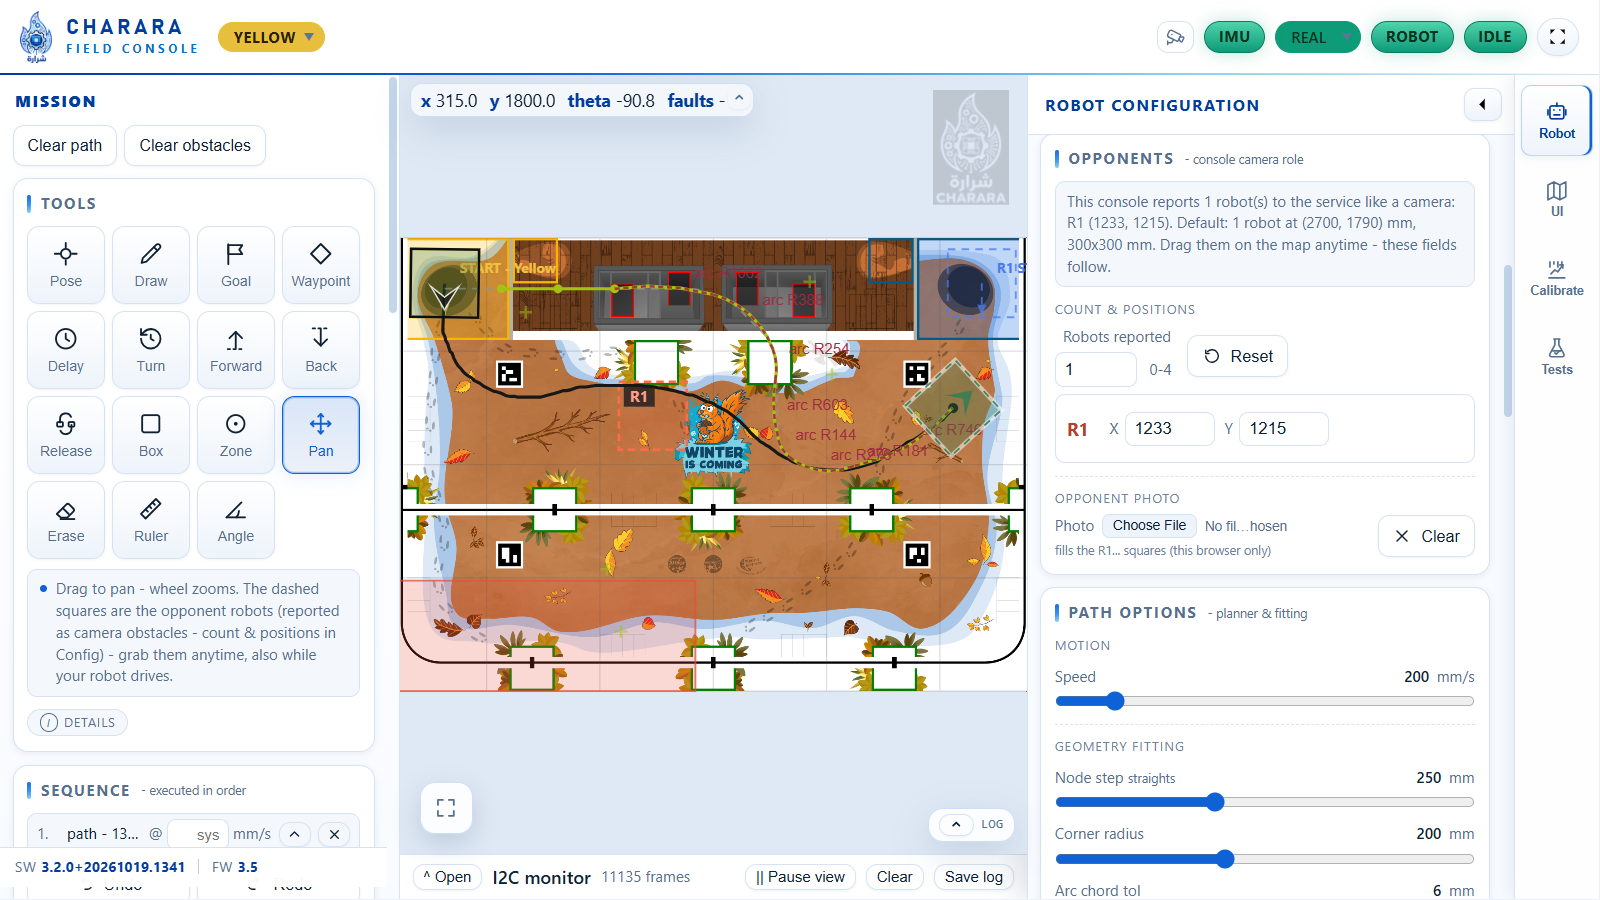
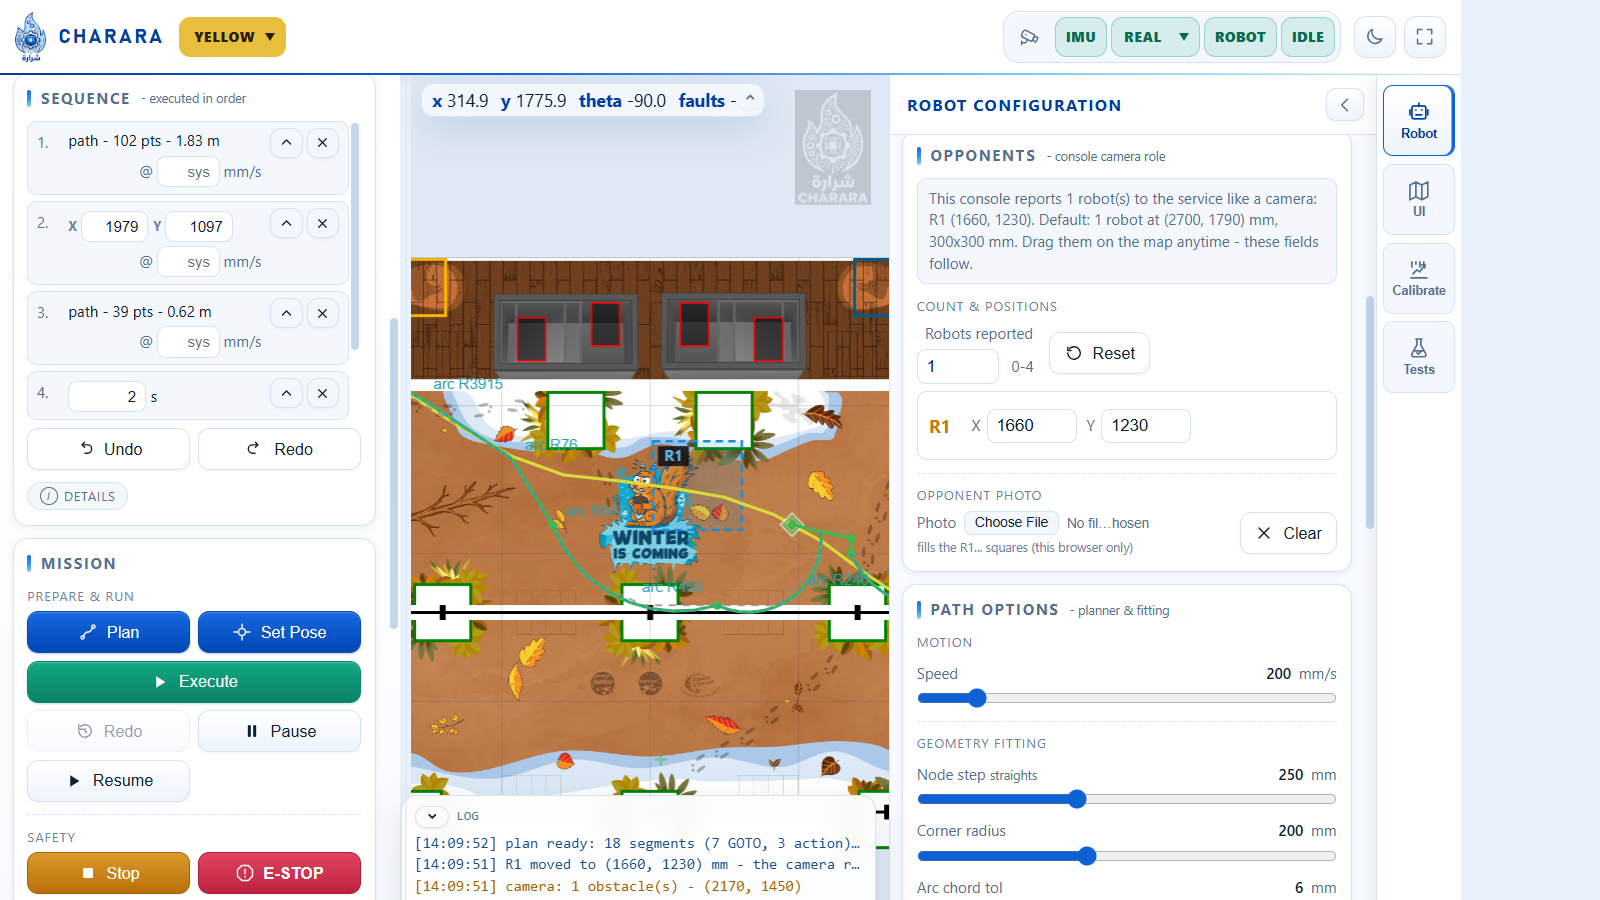
docs: fresh console screenshots in both themes and upright hardware galleries
Every console screenshot is re-captured against the live robot on the new UI
(goal popup, resizable panel, settings rail): the gallery now leads with a dark
hero, pairs the same mission in light and dark, and adds a dedicated theme and
map-palette shot - light and dark side by side instead of one theme only.

Hardware galleries use equal-height photos, board.jpg and drivetrain.jpg are
rotated upright, and the spring coupling is documented for what it is: the two
tension springs hold the odometry (encoder) wheel on the floor through shocks so
it keeps measuring instead of skipping.

diff --git a/README.md b/README.md
@@ -63,12 +63,15 @@ The electronics are designed in-house: one board carrying the STM32F722, four
 stepper drivers with heatsinks, the power stage and the I2C / encoder
 connectors, with a small OLED for the robot status. The frame mixes
 3D-printed structural parts with aluminium plates, and each drive module carries
-a mecanum wheel on a stepper through a printed gearbox.
+a mecanum wheel on a stepper through a printed gearbox. Two **spring-loaded
+odometry wheels** ride on the table: the springs pull each encoder wheel onto
+the floor so it keeps contact - and keeps measuring - through shocks, bumps and
+the small chassis movements of a mecanum drive.
 
 <p align="center">
-  <a href="Docs/assets/hardware/board.jpg"><img width="32%" alt="Controller board: STM32F722, four stepper drivers under heatsinks, power stage, status OLED" src="Docs/assets/hardware/board.jpg"></a>
-  <a href="Docs/assets/hardware/drivetrain.jpg"><img width="32%" alt="Drivetrain seen from above: four stepper modules and mecanum wheels around the controller board" src="Docs/assets/hardware/drivetrain.jpg"></a>
-  <a href="Docs/assets/hardware/robot.jpg"><img width="32%" alt="The assembled robot: electronics stack, battery, mecanum wheels and the vision tag" src="Docs/assets/hardware/robot.jpg"></a>
+  <a href="Docs/assets/hardware/board.jpg"><img height="230" alt="Controller board: STM32F722, four stepper drivers under heatsinks, power stage and a status OLED that reads Charara" src="Docs/assets/hardware/board.jpg"></a>
+  <a href="Docs/assets/hardware/drivetrain.jpg"><img height="230" alt="Drivetrain seen from above: four stepper modules and mecanum wheels, the two spring-loaded odometry wheels front and back" src="Docs/assets/hardware/drivetrain.jpg"></a>
+  <a href="Docs/assets/hardware/robot.jpg"><img height="230" alt="The assembled robot: electronics stack, battery, mecanum wheels and the vision tag" src="Docs/assets/hardware/robot.jpg"></a>
 </p>
 <p align="center"><sub><b>Controller board</b> &nbsp;·&nbsp; <b>drivetrain, top view</b> &nbsp;·&nbsp; <b>assembled robot</b></sub></p>
 
@@ -77,31 +80,39 @@ More in [`Electrical/`](Electrical/) (schematic, PCB routing) and
 
 ## The console in pictures
 
-A live session against the real STM32 board (`SW 3.2.0`, `FW 3.5`): the mission
-panel, a path drawn on the Eurobot 2026 table, the planner output (dashes) and
-the I2C link. The opponent `R1` is reported by the camera in the middle of the
-route, so the plan is regenerated around it live. Click any image for the full
+A live session against the real STM32 board (`SW 3.2.0`, `FW 3.5`): the sequence
+and mission panels, a path drawn on the Eurobot 2026 table, the planner output
+and the I2C link. The opponent `R1` is reported by the camera, so the plan is
+regenerated around it live. The console ships in two themes - a bright daylight
+theme and a **carbon-black night theme** (`Light / Dark / System`, remembered per
+browser) - and every map layer can be recoloured. Click any image for the full
 resolution.
 
-[![Charara field console: mission panel, drawn path, planned path around the opponent and live telemetry](Docs/assets/screenshots/console-overview.png)](Docs/assets/screenshots/console-overview.png)
+[![Charara field console, dark theme: sequence and mission cards, a drawn path, the planned path and live telemetry](Docs/assets/screenshots/console-overview-dark.png)](Docs/assets/screenshots/console-overview-dark.png)
 
 <p align="center">
-  <a href="Docs/assets/screenshots/console-reroute.png"><img width="49%" alt="Dynamic re-planning: the camera moves R1 into the route and the planner re-routes, shown by the log lines 'R1 moved ... our route is re-checked' and 'plan ready'" src="Docs/assets/screenshots/console-reroute.png"></a>
+  <a href="Docs/assets/screenshots/console-overview.png"><img width="49%" alt="Charara field console, light theme: the same mission with the sequence and mission cards, drawn and planned paths, goal with its arrival heading and the live telemetry" src="Docs/assets/screenshots/console-overview.png"></a>
+  <a href="Docs/assets/screenshots/console-theme-palette.png"><img width="49%" alt="Dark theme settings: Light / Dark / System appearance switcher and the full map colour palette with a hex readout per layer" src="Docs/assets/screenshots/console-theme-palette.png"></a>
+</p>
+<p align="center"><sub><b>Left:</b> the same console in the daylight theme &nbsp;·&nbsp; <b>Right:</b> dark theme and the full map palette - paths, robots, obstacles, goal, tools, each with its own colour</sub></p>
+
+<p align="center">
+  <a href="Docs/assets/screenshots/console-reroute.png"><img width="49%" alt="Dynamic re-planning: the camera moves R1 into the route and the planner re-routes around it, shown by the log lines 'R1 moved ... our route is re-checked' and 'plan ready'" src="Docs/assets/screenshots/console-reroute.png"></a>
   <a href="Docs/assets/screenshots/console-i2c-monitor.png"><img width="49%" alt="I2C monitor streaming protocol frames with payloads" src="Docs/assets/screenshots/console-i2c-monitor.png"></a>
 </p>
-<p align="center"><sub><b>Left:</b> live re-planning — the camera moves the opponent into the route, the log shows "our route is re-checked" then "plan ready" &nbsp;·&nbsp; <b>Right:</b> live I2C frames (TX/RX, status, payload)</sub></p>
+<p align="center"><sub><b>Left</b> (dark theme): live re-planning — the camera moves the opponent into the route, the log shows "our route is re-checked" then "plan ready" &nbsp;·&nbsp; <b>Right</b> (light theme): live I2C frames (TX/RX, status, payload)</sub></p>
 
 <p align="center">
   <a href="Docs/assets/screenshots/console-robot-config.png"><img width="49%" alt="Robot, opponent and planner configuration" src="Docs/assets/screenshots/console-robot-config.png"></a>
   <a href="Docs/assets/screenshots/console-calibration.png"><img width="49%" alt="Drive and turn calibration with measured-versus-expected fix buttons" src="Docs/assets/screenshots/console-calibration.png"></a>
 </p>
-<p align="center"><sub><b>Left:</b> robot body, clearance, camera-reported opponents, planner tuning &nbsp;·&nbsp; <b>Right:</b> drive / turn calibration with fix buttons</sub></p>
+<p align="center"><sub><b>Left</b> (dark theme): robot body, clearance, camera-reported opponents, planner tuning &nbsp;·&nbsp; <b>Right</b> (light theme): drive / turn calibration with fix buttons</sub></p>
 
 <p align="center">
   <a href="Docs/assets/screenshots/console-tests.png"><img width="49%" alt="Bench tests: pre-match readiness, square test and arc test" src="Docs/assets/screenshots/console-tests.png"></a>
   <a href="Docs/assets/screenshots/console-opponents-path-options.png"><img width="49%" alt="Opponent camera role and path options: speed, node step, corner radius" src="Docs/assets/screenshots/console-opponents-path-options.png"></a>
 </p>
-<p align="center"><sub><b>Left:</b> scripted bench tests &amp; pre-match readiness &nbsp;·&nbsp; <b>Right:</b> opponent camera role and planner geometry</sub></p>
+<p align="center"><sub><b>Left</b> (dark theme): scripted bench tests &amp; pre-match readiness &nbsp;·&nbsp; <b>Right</b> (light theme): opponent camera role and planner geometry</sub></p>
 
 ## 1. What it does
 
@@ -109,14 +120,14 @@ resolution.
 |---|---|
 | Field view | Big canvas of the Eurobot table (3000 x 2000 mm default); the real **Eurobot 2026 table** ships as `field/table.png` (rendered 1 px = 1 mm from `Docs/Eurobot_2026/table_FINALE_1.0.pdf`) with a built-in SVG fallback |
 | Set start pose | Click on the field to place the robot, then **drag away from the point to aim the heading - the angle value follows the cursor at the arrow tip**. A **popup next to the point** holds editable **X / Y / theta** fields (typing moves the marker live, values are clamped to the field and wrapped to +/-180 deg), plus **Validate** (same as **Set Pose**, Enter works too) and x/Esc to cancel - the UI and the STM32 both adopt the validated coordinates (`SET_POSE`) |
-| Goal | Click to place the goal, then **drag away from it to aim the arrival heading theta** (the numeric theta box in the Mission card edits it too). The goal leg is **routed around obstacles** like any other leg and the goal position is always reached exactly |
+| Goal | Click to place the goal, then **drag away from it to aim the arrival heading theta**. A **goal popup** opens next to the marker with editable **X / Y / theta** (empty theta = no arrival heading) and Apply / delete / close; clicking an existing goal reopens it (Enter applies, Esc closes without touching the goal). The goal leg is **routed around obstacles** like any other leg and the goal position is always reached exactly |
 | Draw paths | Freehand strokes with the mouse/touch are fitted to **lines and arcs** (arcs stay arcs, see section 4); drawing is **clamped to the playfield**. Consecutive paths are **connected**: a stroke started within 250 mm of the previous endpoint snaps onto it, and the planner routes the connecting leg |
 | Ghost preview | A semi-transparent robot (white halo + dashed outline, painted in your robot colour) shows where the commands leave the robot **before you execute anything**: it sits on the last drawn point facing along the line while you draw, animates every **+ Rotation** (in the commanded direction, even 270 deg), passes through waypoints, pauses in place and finishes on the goal - resimulated from the live robot pose on every edit. **Stepping a rotation's angle in the sequence** makes the shadow glide to that rotation's position and turn there by the new angle, so you see exactly what the command does |
 | Sequence steps | Ordered steps between paths: **+ Rotation** (turn in place, any angle; split into <=170 deg chunks), **+ Pause** (timed stop), **Forward / Back** moves and a **Release** step (stepper drivers off after the movement is fully idle; the next move re-energizes). Every step has x delete and ^ move buttons; Undo restores the previous list, **Clear path** empties it |
 | Waypoints | Clicking near a drawn path snaps the waypoint onto its **nearest point and splits the path there**; clicking away adds a free one (a waypoints-only mission works). The path **sweeps smoothly through each waypoint** like a drawn, rounded corner - the fillet stays within `waypoint_cut_mm` (default 50 mm) of the exact point; set it to 0 for an exact knife-point GOTO on the point. Shown as a small diamond while editing; waypoint x/y, rotation angle and pause seconds are **editable in place** in the sequence |
 | Robot geometry | The **Config** tab holds the robot size (default 300 x 300 mm, position = body centre), an **obstacle margin** (default 150 mm) and a **robot photo** (file picker with a **thumbnail preview** and *Clear*; drawn inside the robot square, downscaled to 512 px, stored in the browser). The planner derives its clearances from the size and margin: the path keeps every leg `half-diagonal` away from the field border (the whole body stays on the table) and `half-diagonal + margin` away from obstacles |
-| Display colours | The **Config** tab also lets you recolour the drawn path, the planned path, the reference path, the robot marker and the **turns & pauses** annotations (stored in the browser, **Reset colors** restores the defaults) |
-| Console layout | Side panel has three tabs: **Mission** (icon tool tiles - Pose, Draw, Goal, Waypoint, Box, Zone, Pan, Erase - with the active-tool hint and a collapsed **Details** fold for the long description; sequence with icon add/undo/redo buttons; **Mission** card grouped into *Target / Prepare & run / Safety* with icon buttons - **Plan**, **Set Pose**, **Execute**, **Pause**, **Resume**, **Stop**, **E-STOP**, **Clear Faults**, **Release motors**; drive pad as an icon D-pad), **Config** (grouped **Robot** body/clearance/photo with thumbnail preview, **Opponents** count/positions/photo, **Path options** with captioned sliders and checkbox chips + a **Details** fold, **Display** colours, **Field** size/Fit view - same icon-button card style) and **Calibration** (board settings registers, drive/turn tests, board error log). **Clear path / Clear obstacles** sit right under the tabs (both tabs), display colours are listed one per line with the squares **aligned in one column**, the sequence has **Undo / Redo**; **Execute** can be pressed again any time to replay the last plan; the **full-screen button** (header, top-right) toggles browser full screen |
+| Display colours | The **UI** tab recolours **every layer** of the map one per line with a hex readout - drawn path, planned path, reference, turns & pauses, waypoints, our robot, other robots (the red camera squares), obstacles, goal, ruler & angle, pose marker - stored in the browser, with **Reset all colours**. The same tab holds the **theme**: Light / Dark / System, remembered per browser, the dark theme a neutral carbon-black that also dims the table artwork |
+| Console layout | Left **Mission** panel: **Clear path / Clear obstacles**, the tool grid (Pose, Draw, Goal, Waypoint, Delay, Turn, Forward, Back, Release, Box, Zone, Pan, Erase, Ruler, Angle) with the active-tool hint and a **Details** fold, the **sequence** (Undo / Redo, inline x/y/angle/seconds/speed editing) and the **Mission** card grouped into *Prepare & run* (**Plan**, **Set Pose**, **Execute**, **Pause**, **Resume**, **Redo**) and *Safety* (**Stop**, **E-STOP**, **Clear Faults**, **Release motors** - the release asks for an inline UI confirmation first). The panel is **resizable** (drag the border, double-click to reset, remembered per browser) and switches the tool grid to three columns when narrow. A **settings rail** on the right opens the **Robot**, **UI**, **Calibration** and **Tests** drawers full height. The header carries the brand, the team selector, a recessed status cluster (camera, IMU, link, robot, state) that wraps gracefully on small screens, the **theme toggle** and **full screen** |
 | Robot settings & calibration | The **Calibration** tab reads and writes the board's settings registers (**GET/SET_CONFIG** over I2C): stepper wheel diameter, microsteps, robot/odometry tracks, speed limits, ramps, gains and direction masks - grouped in cards, each with its **own icon action bar**: green triangle **Apply** (write that group to the board RAM), disk **Save to flash** (`SAVE_CONFIG`; loaded again at boot) and undo **Restore** (re-read the group, drop local edits); hover a button shows the exact action. **Motor direction** has one 0/1 column per wheel (FL/FR/RL/RR) and **Encoder direction** one per odometry encoder (L/R) - each bit loaded from the board, so a single motor or encoder can be inverted on its own; the **strafe +Y pattern** keeps its four wheel columns. Drive and turn tests command a known motion, show what the board odometry reported, and the **fix buttons** rescale the matching register from a tape measurement. Board-wide **Reload from flash** and **Defaults** sit under the groups |
 | Board errors | The same tab shows the board **event log** (`GET /api/errors` / `QUERY_EVENTS`): faults, bad frames, rejected parameters, busy rejections, I2C and flash errors, config fallback, plus the boot reset cause and the config dirty flag; warn/error entries also appear in the service log |
 | I2C monitor | Collapsible pane at the bottom of the field view showing every I2C frame (TX/RX/errors with sequence number, status and payload). **Pause view** freezes the display, **Clear** empties the buffer, **Save log** downloads `charara_i2c_<timestamp>.log` |

diff --git a/Mecanical/README.md b/Mecanical/README.md
@@ -32,15 +32,22 @@ half-diagonal - is configured in the console, see
 ## Real photos
 
 <p align="center">
-  <a href="../Docs/assets/hardware/chassis-top.jpg"><img width="32%" alt="Bare chassis from above: four mecanum wheels, steppers and the controller board" src="../Docs/assets/hardware/chassis-top.jpg"></a>
-  <a href="../Docs/assets/hardware/drivetrain.jpg"><img width="32%" alt="Drivetrain with the motors wired, seen from above" src="../Docs/assets/hardware/drivetrain.jpg"></a>
-  <a href="../Docs/assets/hardware/robot.jpg"><img width="32%" alt="The assembled robot on the floor" src="../Docs/assets/hardware/robot.jpg"></a>
+  <a href="../Docs/assets/hardware/chassis-top.jpg"><img height="230" alt="Bare chassis from above: four mecanum wheels, steppers and the controller board" src="../Docs/assets/hardware/chassis-top.jpg"></a>
+  <a href="../Docs/assets/hardware/drivetrain.jpg"><img height="230" alt="Drivetrain with the motors wired, seen from above" src="../Docs/assets/hardware/drivetrain.jpg"></a>
+  <a href="../Docs/assets/hardware/robot.jpg"><img height="230" alt="The assembled robot on the floor" src="../Docs/assets/hardware/robot.jpg"></a>
 </p>
 <p align="center"><sub><b>Bare chassis</b> &nbsp;·&nbsp; <b>drivetrain, wired</b> &nbsp;·&nbsp; <b>assembled robot</b></sub></p>
 
 <p align="center">
-  <a href="../Docs/assets/hardware/bearing-mount.jpg"><img width="32%" alt="Wheel hub: printed mount, bearing and coupling" src="../Docs/assets/hardware/bearing-mount.jpg"></a>
-  <a href="../Docs/assets/hardware/stepper-coupling.jpg"><img width="32%" alt="Stepper with the spring coupling on the controller board" src="../Docs/assets/hardware/stepper-coupling.jpg"></a>
-  <a href="../Docs/assets/hardware/vision-setup.jpg"><img width="32%" alt="Robot and camera on the field, with vision tags" src="../Docs/assets/hardware/vision-setup.jpg"></a>
+  <a href="../Docs/assets/hardware/bearing-mount.jpg"><img height="200" alt="Wheel hub: printed mount, bearing and coupling" src="../Docs/assets/hardware/bearing-mount.jpg"></a>
+  <a href="../Docs/assets/hardware/stepper-coupling.jpg"><img height="200" alt="Spring-loaded odometry wheel: two tension springs hold the encoder wheel against the floor" src="../Docs/assets/hardware/stepper-coupling.jpg"></a>
+  <a href="../Docs/assets/hardware/vision-setup.jpg"><img height="200" alt="Robot and camera on the field, with vision tags" src="../Docs/assets/hardware/vision-setup.jpg"></a>
 </p>
-<p align="center"><sub><b>Wheel hub</b> &nbsp;·&nbsp; <b>stepper coupling</b> &nbsp;·&nbsp; <b>robot and camera on the field</b></sub></p>
+<p align="center"><sub><b>Wheel hub</b> &nbsp;·&nbsp; <b>spring-loaded odometry wheel</b> &nbsp;·&nbsp; <b>robot and camera on the field</b></sub></p>
+
+**Spring-loaded odometry wheels.** Two small encoder wheels ride on the table
+next to the drive modules. Each one is carried by a sprung lever: the two
+tension springs in the middle photo pull the wheel onto the floor, so it keeps
+contact - and keeps measuring - through shocks, bumps and the small chassis
+movements of a mecanum drive instead of skipping on a bad seam and losing the
+odometry.
